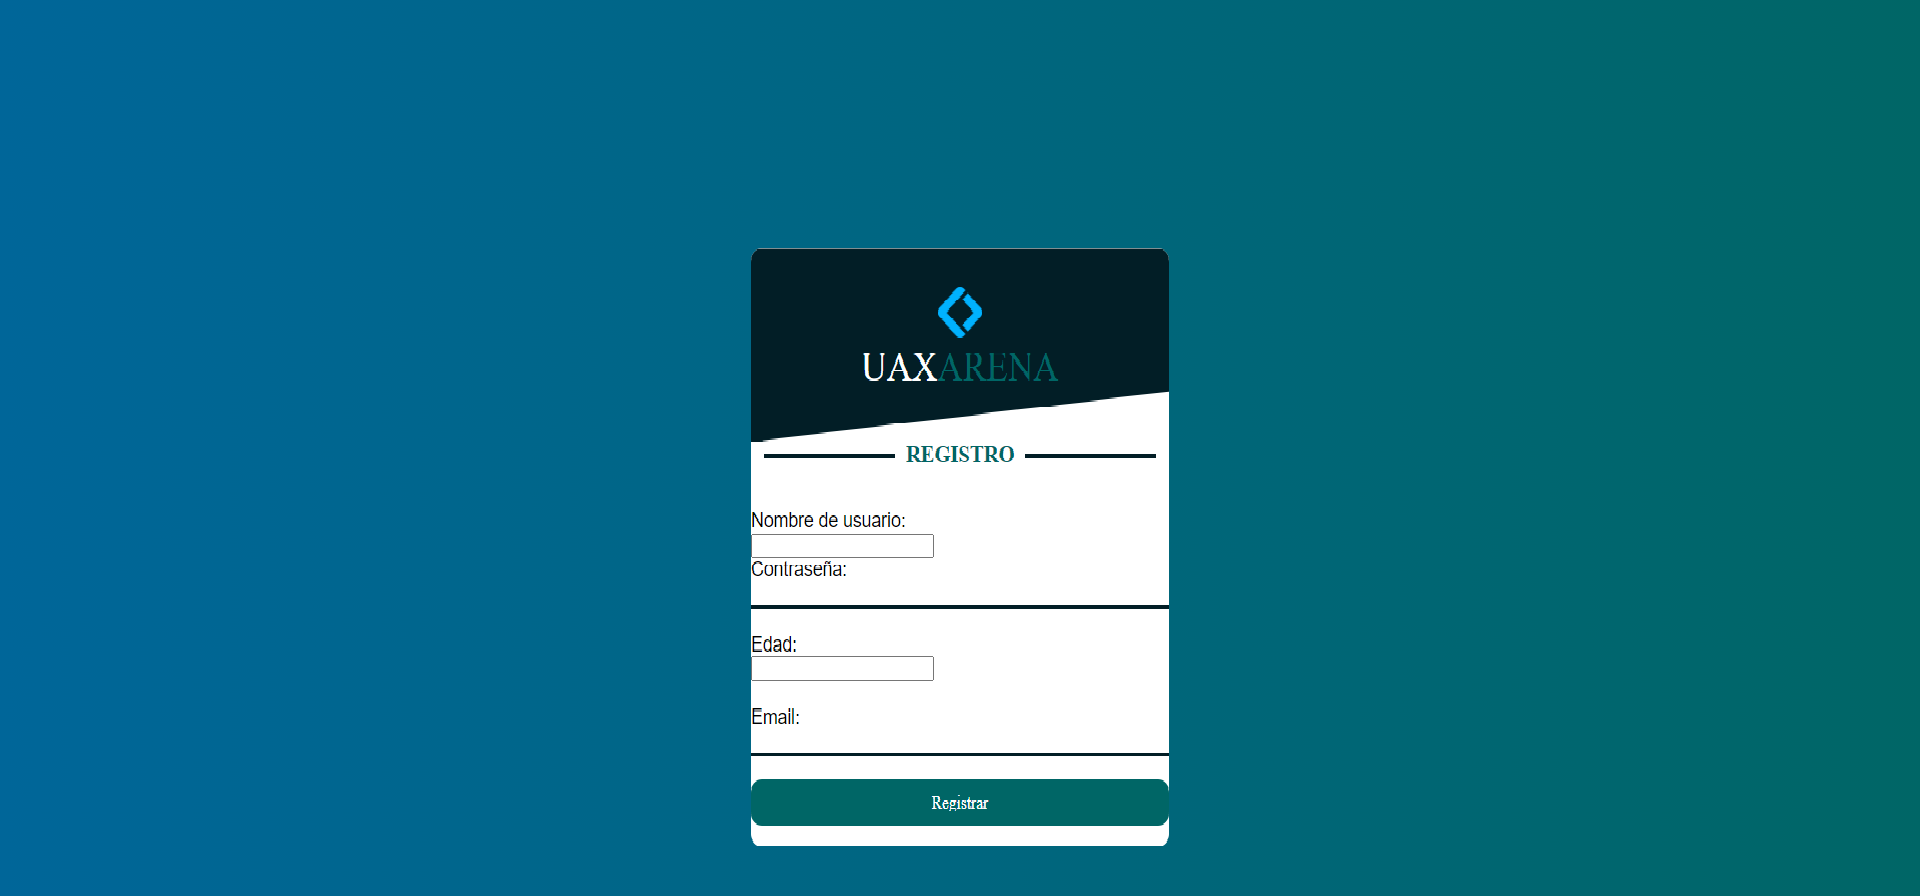
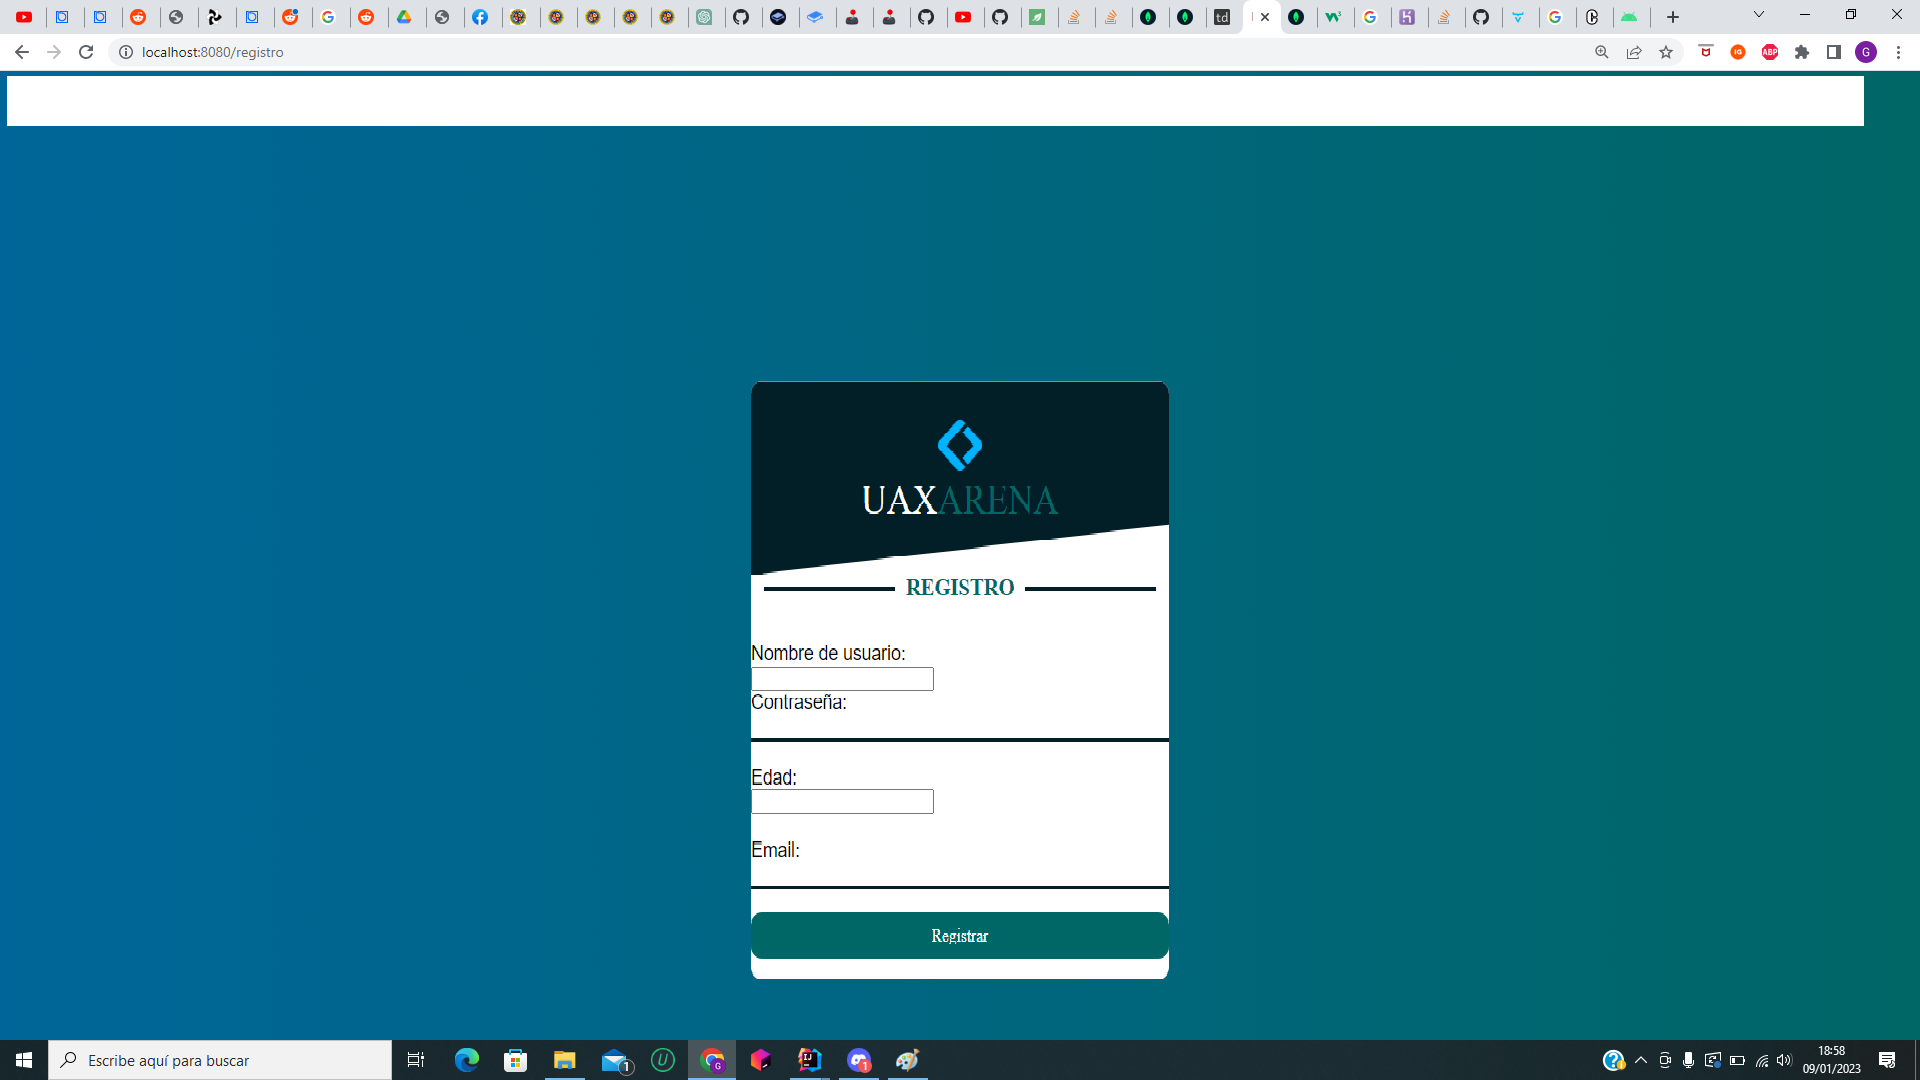
GitBook: [#41] No subject

Changed region(s): [[0.0, 0.0, 1.0, 0.125], [0.0, 0.7188, 1.0, 1.0], [0.375, 0.25, 0.625, 0.6875]]

diff --git a/web-promocional.md b/web-promocional.md
@@ -29,7 +29,7 @@ El 'Login' es una página donde el usuario podrá ingresar en el juego, al igual
 
 De la misma forma que nuestro 'Login', este funciona para dar soporte y permitir a nuestros usuarios registrarse en nuestra BBDD para permitirles guardar su usuario y jugar a nuestro juego.
 
-<figure><img src=".gitbook/assets/Registro (1).png" alt=""><figcaption></figcaption></figure>
+<figure><img src=".gitbook/assets/Registro.png" alt=""><figcaption></figcaption></figure>
 
 ### INTRODUCCIÓN
 
@@ -41,9 +41,13 @@ Nos introduce en el juego y nos invita a una experiencia única de juego en las 
 
 Se introducen los protagonistas de nuestras batallas que acompañará a nuestro usuario. Estos te harán tener mayor inmersión en el juego.
 
+<figure><img src=".gitbook/assets/personajes.png" alt=""><figcaption></figcaption></figure>
+
 ### ABOUT US
 
 Concreta brevemente como es la familia de UAX-ARENA y nos invita a tener un contacto más cercano con nuestros colaboradores del juego.&#x20;
+
+<figure><img src=".gitbook/assets/about.png" alt=""><figcaption></figcaption></figure>
 
 ### CONTACTO
 
